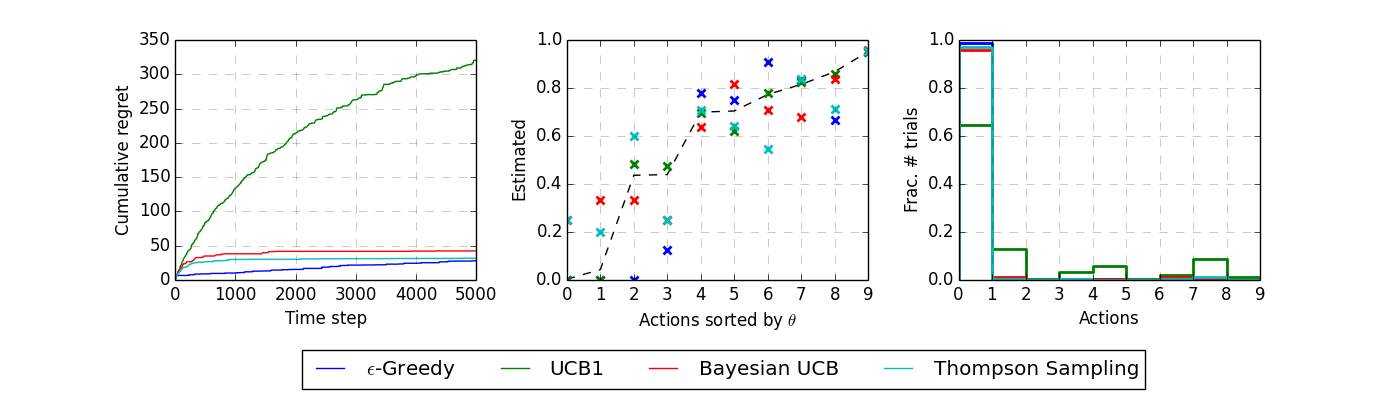
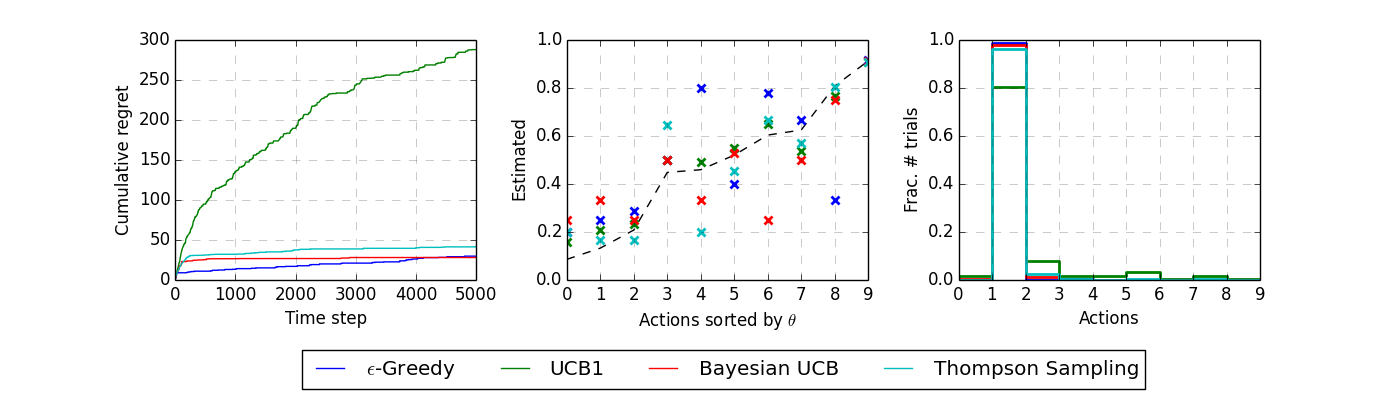
March 27th 2019

diff --git a/main.py b/main.py
@@ -3,6 +3,7 @@ matplotlib.use('Agg')  # noqa
 
 import matplotlib.pyplot as plt
 import numpy as np
+import sys
 
 from bandits import BernoulliBandit
 from solvers import Solver, EpsilonGreedy, UCB1, BayesianUCB, ThompsonSampling
@@ -96,5 +97,33 @@ def experiment(K, N):
     plot_results(test_solvers, names, "results_K{}_N{}.png".format(K, N))
 
 
+def readCommandLine(argv):
+    '''Deal with the command line.
+    '''
+    import argparse
+
+    parser = argparse.ArgumentParser(description=__doc__)
+
+    parser.add_argument('-B', '--number-of-bandits', action = None,
+                        default = 10,
+                        help = 'Number of "Bandits" during experiment.')
+
+    parser.add_argument('-s', '--number-of-steps', action = None,
+                        default = 5000,
+                        help = 'Number of steps during experiment.')
+
+    args = parser.parse_args(argv[1:])
+
+    return args
+
+
 if __name__ == '__main__':
-    experiment(10, 5000)
+    args = readCommandLine(sys.argv)
+    print args.number_of_bandits, args.number_of_steps
+
+    experiment(int(args.number_of_bandits), int(args.number_of_steps))
+#    experiment(10, 5000)
+
+
+
+
